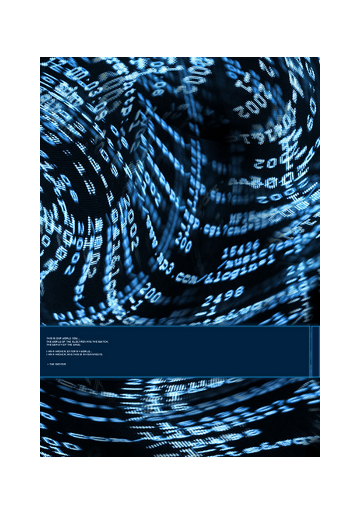
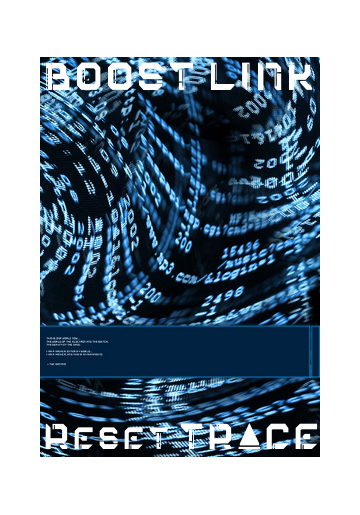
Added new board
Repositioned all cards to fit the new board
Changed the Virus Scan card art
Added text to the Trace/Link card
Changed Game Background
Added Unofficial Action Card Reference Documents

diff --git a/o8g/Scripts/actions.py b/o8g/Scripts/actions.py
@@ -196,49 +196,49 @@ def createStartingCards():
       debugNotify(">>> createStartingCards()") #Debug
       if ds == "corp":
          if debugVerbosity >= 5: information("Creating Trace Card")
-         traceCard = table.create("eb7e719e-007b-4fab-973c-3fe228c6ce20", 510, 200, 1, True) #The Trace card
+         traceCard = table.create("eb7e719e-007b-4fab-973c-3fe228c6ce20", 569, 163, 1, True) #The Trace card
          storeSpecial(traceCard)
          if debugVerbosity >= 5: information("Creating HQ")
-         HQ = table.create("81cba950-9703-424f-9a6f-af02e0203762", 0, 0, 1, True)
-         HQ.moveToTable(125, 185) # MoveToTable is accurate. Table.create isn't.
+         HQ = table.create("81cba950-9703-424f-9a6f-af02e0203762", 169, 188, 1, True)
+         HQ.moveToTable(169, 188) # MoveToTable is accurate. Table.create isn't.
          storeSpecial(HQ) # We pass control of the centrals to the runner, so that they can double click them to start runs
          HQ.setController(findOpponent())
          if debugVerbosity >= 5: information("Creating R&D")
-         RD = table.create("fbb865c9-fccc-4372-9618-ae83a47101a2", 0, 0, 1, True)
-         RD.moveToTable(245, 185)
+         RD = table.create("fbb865c9-fccc-4372-9618-ae83a47101a2", 277, 188, 1, True)
+         RD.moveToTable(277, 188)
          storeSpecial(RD)
          RD.setController(findOpponent())
          if debugVerbosity >= 5: information("Creating Archives")
-         ARC = table.create("47597fa5-cc0c-4451-943b-9a14417c2007", 0, 0, 1, True)
-         ARC.moveToTable(363, 185)
+         ARC = table.create("47597fa5-cc0c-4451-943b-9a14417c2007", 382, 188, 1, True)
+         ARC.moveToTable(382, 188)
          storeSpecial(ARC)
          ARC.setController(findOpponent())
          if debugVerbosity >= 5: information("Creating Virus Scan")
-         AV = table.create("23473bd3-f7a5-40be-8c66-7d35796b6031", 0, 0, 1, True) # The Virus Scan card.
-         AV.moveToTable(510, 127)
+         AV = table.create("23473bd3-f7a5-40be-8c66-7d35796b6031", 478, 165, 1, True) # The Virus Scan card.
+         AV.moveToTable(478, 165)
          storeSpecial(AV)
          try:
-            BTN = table.create("fb146e53-714b-4b29-861a-d58ca9840c00", 0, 0, 1, True) # The No Rez Button
+            BTN = table.create("fb146e53-714b-4b29-861a-d58ca9840c00", -652, 150, 1, True) # The No Rez Button
             BTN.moveToTable(-652, 150)
-            BTN = table.create("e904542b-83db-4022-9e8e-9369fe7bc761", 0, 0, 1, True) # The OK Button
+            BTN = table.create("e904542b-83db-4022-9e8e-9369fe7bc761", -652, 220, 1, True) # The OK Button
             BTN.moveToTable(-652, 220)
-            BTN = table.create("0887f64f-4fe8-4a5b-9d41-77408fe0224b", 0, 0, 1, True) # The Wait Button
+            BTN = table.create("0887f64f-4fe8-4a5b-9d41-77408fe0224b", -652, 290, 1, True) # The Wait Button
             BTN.moveToTable(-652, 290)
          except: delayed_whisper("!!!ERROR!!! In createStartingCards()\n!!! Please Install Markers Set v2.2.1+ !!!")
       else:
          if debugVerbosity >= 5: information("Creating Trace Card")
-         traceCard = table.create("eb7e719e-007b-4fab-973c-3fe228c6ce20", 566, -323, 1, True) #The Trace card
-         traceCard.moveToTable(345, -345) # Otherwise it's bugging out
+         traceCard = table.create("eb7e719e-007b-4fab-973c-3fe228c6ce20", 342, -349, 1, True) #The Trace card
+         traceCard.moveToTable(342, -349) # Otherwise it's bugging out
          storeSpecial(traceCard)
          #TC = table.create("71a89203-94cd-42cd-b9a8-15377caf4437", 471, -325, 1, True) # The Technical Difficulties card.
          #TC.moveToTable(471, -325) # It's never creating them in the right place. Move is accurate.
          #storeSpecial(TC)
          try:
-            BTN = table.create("33ac6951-93ec-4034-9578-0d7dcc77c3f8", 0, 0, 1, True) # The Access Imminent Button
+            BTN = table.create("33ac6951-93ec-4034-9578-0d7dcc77c3f8", -641, -230, 1, True) # The Access Imminent Button
             BTN.moveToTable(-641, -230)
-            BTN = table.create("e904542b-83db-4022-9e8e-9369fe7bc761", 0, 0, 1, True) # The OK Button
+            BTN = table.create("e904542b-83db-4022-9e8e-9369fe7bc761", -641, -300, 1, True) # The OK Button
             BTN.moveToTable(-641, -300)
-            BTN = table.create("0887f64f-4fe8-4a5b-9d41-77408fe0224b", 0, 0, 1, True) # The Wait Button
+            BTN = table.create("0887f64f-4fe8-4a5b-9d41-77408fe0224b", -641, -370, 1, True) # The Wait Button
             BTN.moveToTable(-641, -370)
          except: delayed_whisper("!!!ERROR!!! In createStartingCards()\n!!! Please Install Markers Set v2.2.1+ !!!")
    except: notify("!!!ERROR!!! {} - In createStartingCards()\n!!! PLEASE INSTALL MARKERS SET FILE !!!".format(me))
@@ -289,13 +289,13 @@ def intJackin(group, x = 0, y = 0):
    debugNotify("Placing Identity", 3)
    debugNotify("Identity is: {}".format(Identity), 3)
    if ds == "corp":
-      Identity.moveToTable(125, 240)
+      Identity.moveToTable(169, 245)
       rnd(1,10) # Allow time for the ident to be recognised
       maxClicks = 3
       me.MU = 0
       notify("{} is the CEO of the {} Corporation".format(me,Identity))
    else:
-      Identity.moveToTable(105, -345)
+      Identity.moveToTable(103, -349)
       rnd(1,10)  # Allow time for the ident to be recognised
       maxClicks = 4
       me.MU = 4

diff --git a/o8g/Scripts/constants.py b/o8g/Scripts/constants.py
@@ -64,19 +64,19 @@ specialHostPlacementAlgs = { # A Dictionary which holds tuples of X and Y placem
 automatedMarkers = [] #Used in the Inspect() command to let the player know if the card has automations based on the markers it puts out.
 
 place = dict( # A table holding tuples with the original location various card types are expected to start their setup
-            Hardware =              (100, -208, 10, 3, 1),  # 1st value is X, second is Y third is Offset (i.e. how far from the other cards (in pixel size) each extra copy should be played. Negative values means it will fall on top of the previous ones slightly) 
-            Program =               (-7, -220, 10, 10, -1), # 4th value is Loop Limit (i.e. at how many cards after the first do we loop back to the first position. Loop is always slightly offset, so as not to hide the previous ones completely)
-            Resource =              (-6, -345, 10, 10, -1), # Last value is wether the cards will be placed towards the right or left. -1 means to the left.
-            Event =                 (480, -190, 20, 2, 1),
-            Console =               (225, -345, 0, 1, 1),
-            scoredAgenda =          (495, 8, -35, 6, 1),
-            liberatedAgenda =       (336, -206, -35, 6, 1),
-            Server =                (-10, 188, 80, 6, -1),
-            Operation =             (480, 270, 20, 2, 1),
-            ICE =                   (110, 110, 30, 7, -1), # Temporary. ICE, Upgrades, Assets and Agendas will be special
-            Upgrade =               (-10, 248, -30, 13, -1), # Temporary.
-            Asset =                 (-10, 248, -30, 13, -1), # Temporary.
-            Agenda =                (-10, 248, -30, 13, -1) # Temporary.
+            Hardware =              (100, -214, 10, 8, 1),  # 1st value is X, second is Y third is Offset (i.e. how far from the other cards (in pixel size) each extra copy should be played. Negative values means it will fall on top of the previous ones slightly) 
+            Program =               (-16, -216, 10, 10, -1), # 4th value is Loop Limit (i.e. at how many cards after the first do we loop back to the first position. Loop is always slightly offset, so as not to hide the previous ones completely)
+            Resource =              (-16, -349, 10, 10, -1), # Last value is wether the cards will be placed towards the right or left. -1 means to the left.
+            Event =                 (435, -351, 10, 3, 1),
+            Console =               (221, -349, 0, 1, 1),
+            scoredAgenda =          (477, 54, -30, 6, 1),
+            liberatedAgenda =       (477, -79, -30, 6, 1),
+            Server =                (74, 188, 50, 7, -1),
+            Operation =             (463, 247, 10, 3, 1),
+            ICE =                   (157, 110, 30, 7, -1), # Temporary. ICE, Upgrades, Assets and Agendas will be special
+            Upgrade =               (74, 255, -30, 13, -1), # Temporary.
+            Asset =                 (74, 255, -30, 13, -1), # Temporary.
+            Agenda =                (74, 255, -30, 13, -1) # Temporary.
             )
                
 markerRemovals = { # A dictionary which holds the costs to remove various special markers.

diff --git a/changelog.md b/changelog.md
@@ -3,7 +3,7 @@ Changelog - Android:Netrunner LCG OCTGN Game Definition
 
 ### 3.1.3.x
 
-* Fixed Darwin not having MU requirement
+* Fixed Darwin, Faerie, Deep Thought not having MU requirement
 * Deck checking will now check for more than 3 same cards. (Kiv)
 * Deck checking will now work for 40-card Corp decks (Kiv)
 * Salvage Trace is 2, not 3 (Kiv)
